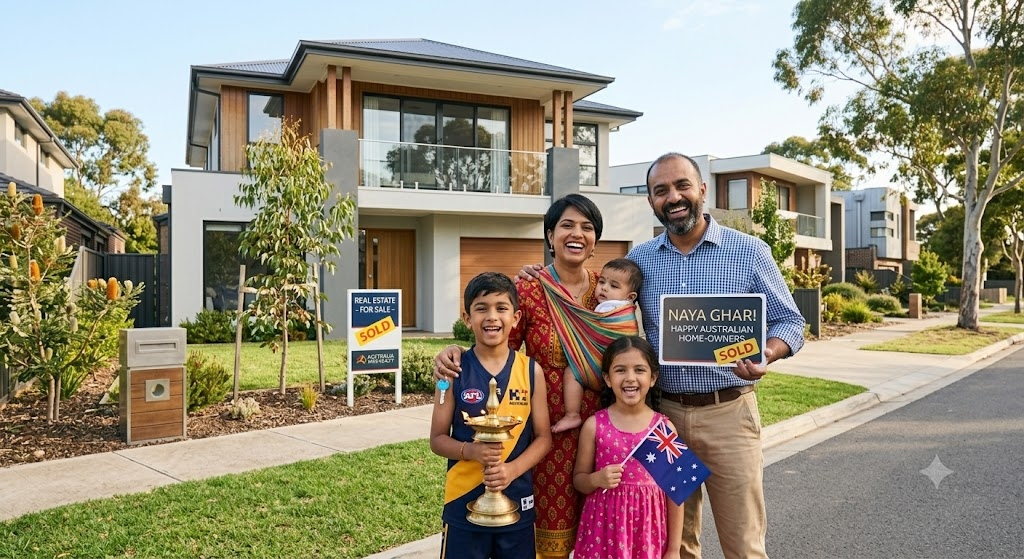
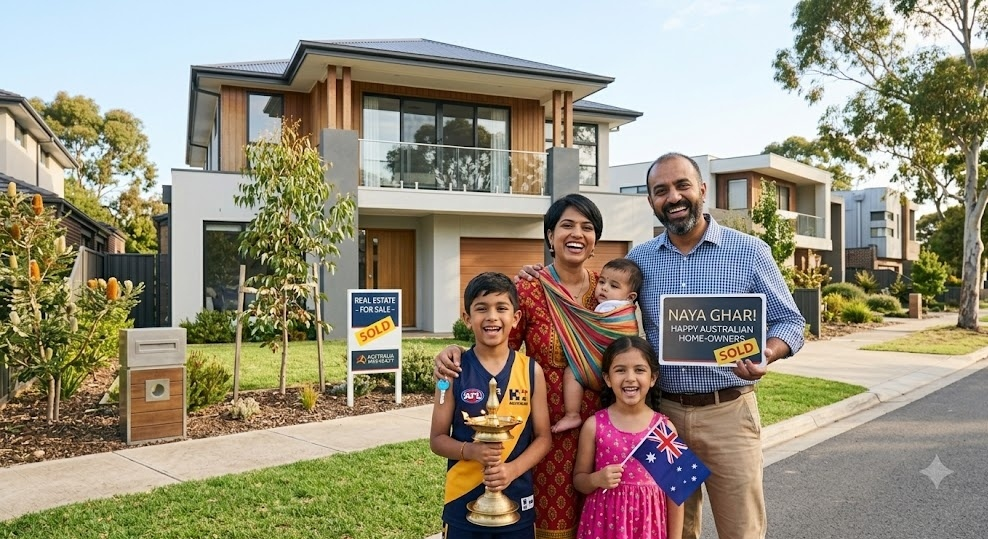
fix(ui): remove all backdrop blur for razor-sharp background visibility and permanently crop Gemini watermark from family photo

diff --git a/assets/style.css b/assets/style.css
@@ -1802,9 +1802,9 @@ section.tight { padding: 56px 0; }
    ⭐ 60-SEC INVESTOR READINESS DIAGNOSTIC QUIZ
    ========================================================================== */
 .quiz-section {
-  padding: 70px 16px;
+  padding: 60px 16px;
   position: relative;
-  background: linear-gradient(180deg, rgba(10, 20, 15, 0.25) 0%, rgba(10, 20, 15, 0.10) 50%, rgba(10, 20, 15, 0.30) 100%), 
+  background: linear-gradient(180deg, rgba(0, 0, 0, 0.42) 0%, rgba(0, 0, 0, 0.15) 45%, rgba(0, 0, 0, 0.45) 100%), 
               url('quiz-family-bg.jpg') center center / cover no-repeat;
   background-attachment: scroll;
 }
@@ -1816,38 +1816,36 @@ section.tight { padding: 56px 0; }
 
 .quiz-header {
   max-width: 780px;
-  margin: 0 auto 30px;
+  margin: 0 auto 28px;
   position: relative;
   z-index: 2;
 }
 
 .quiz-header .tag {
-  background: rgba(255, 255, 255, 0.25);
+  background: rgba(0, 0, 0, 0.45);
   color: #ffffff;
-  border: 1px solid rgba(255, 255, 255, 0.45);
-  backdrop-filter: blur(8px);
-  -webkit-backdrop-filter: blur(8px);
+  border: 1px solid rgba(255, 255, 255, 0.4);
   text-shadow: 0 1px 3px rgba(0, 0, 0, 0.8);
 }
 
 .quiz-header h2 {
   color: #ffffff;
-  text-shadow: 0 2px 14px rgba(0, 0, 0, 0.85);
+  text-shadow: 0 2px 14px rgba(0, 0, 0, 0.9);
 }
 
 .quiz-header .lede {
-  color: #eaf3ee;
-  text-shadow: 0 1px 8px rgba(0, 0, 0, 0.85);
+  color: #f0f7f4;
+  text-shadow: 0 1px 8px rgba(0, 0, 0, 0.9);
 }
 
 .quiz-container-box {
-  background: rgba(10, 22, 16, 0.48);
-  backdrop-filter: blur(14px);
-  -webkit-backdrop-filter: blur(14px);
-  border: 1.5px solid rgba(255, 255, 255, 0.30);
+  background: rgba(8, 18, 13, 0.45);
+  backdrop-filter: none;
+  -webkit-backdrop-filter: none;
+  border: 1px solid rgba(255, 255, 255, 0.22);
   border-radius: var(--radius-xl);
-  padding: 42px 48px;
-  box-shadow: 0 30px 70px rgba(0, 0, 0, 0.55);
+  padding: 38px 44px;
+  box-shadow: 0 24px 60px rgba(0, 0, 0, 0.5);
   max-width: 1160px;
   width: 100%;
   margin: 0 auto;
@@ -1857,7 +1855,7 @@ section.tight { padding: 56px 0; }
 
 /* Progress Track */
 .quiz-progress-bar-wrap {
-  margin-bottom: 32px;
+  margin-bottom: 28px;
 }
 
 .quiz-progress-meta {
@@ -1873,7 +1871,7 @@ section.tight { padding: 56px 0; }
 
 .quiz-progress-track {
   height: 8px;
-  background: rgba(255, 255, 255, 0.18);
+  background: rgba(255, 255, 255, 0.2);
   border-radius: var(--radius-full);
   overflow: hidden;
   border: 1px solid rgba(255, 255, 255, 0.25);
@@ -1891,7 +1889,7 @@ section.tight { padding: 56px 0; }
 .quiz-question-title {
   font-size: 1.45rem;
   color: #ffffff;
-  text-shadow: 0 2px 10px rgba(0, 0, 0, 0.85);
+  text-shadow: 0 2px 10px rgba(0, 0, 0, 0.9);
   margin-bottom: 6px;
   line-height: 1.25;
 }
@@ -1899,8 +1897,8 @@ section.tight { padding: 56px 0; }
 .quiz-question-sub {
   font-size: 0.94rem;
   color: #d8e8e0;
-  text-shadow: 0 1px 6px rgba(0, 0, 0, 0.8);
-  margin-bottom: 24px;
+  text-shadow: 0 1px 6px rgba(0, 0, 0, 0.9);
+  margin-bottom: 22px;
 }
 
 /* Options Grid */
@@ -1913,16 +1911,16 @@ section.tight { padding: 56px 0; }
 .quiz-opt-card {
   display: block;
   cursor: pointer;
-  border: 1.5px solid rgba(255, 255, 255, 0.24);
+  border: 1px solid rgba(255, 255, 255, 0.22);
   border-radius: var(--radius-md);
-  padding: 20px 22px;
-  background: rgba(10, 24, 18, 0.52);
-  backdrop-filter: blur(10px);
-  -webkit-backdrop-filter: blur(10px);
-  transition: all 0.25s cubic-bezier(0.16, 1, 0.3, 1);
+  padding: 18px 20px;
+  background: rgba(10, 22, 16, 0.58);
+  backdrop-filter: none;
+  -webkit-backdrop-filter: none;
+  transition: all 0.2s ease;
   position: relative;
   user-select: none;
-  box-shadow: 0 8px 24px rgba(0, 0, 0, 0.25);
+  box-shadow: 0 6px 20px rgba(0, 0, 0, 0.3);
 }
 
 .quiz-opt-card input {
@@ -1932,14 +1930,14 @@ section.tight { padding: 56px 0; }
 .quiz-opt-card:hover {
   border-color: #55d697;
   transform: translateY(-2px);
-  background: rgba(255, 255, 255, 0.16);
-  box-shadow: 0 10px 28px rgba(0, 0, 0, 0.4);
+  background: rgba(18, 38, 28, 0.78);
+  box-shadow: 0 10px 28px rgba(0, 0, 0, 0.45);
 }
 
 .quiz-opt-card.selected {
   border-color: #55d697;
-  background: rgba(85, 214, 151, 0.22);
-  box-shadow: 0 0 20px rgba(85, 214, 151, 0.35);
+  background: rgba(85, 214, 151, 0.25);
+  box-shadow: 0 0 18px rgba(85, 214, 151, 0.4);
 }
 
 .quiz-opt-content {
@@ -1958,7 +1956,7 @@ section.tight { padding: 56px 0; }
   display: block;
   font-size: 0.98rem;
   color: #ffffff;
-  text-shadow: 0 1px 4px rgba(0, 0, 0, 0.8);
+  text-shadow: 0 1px 4px rgba(0, 0, 0, 0.9);
   margin-bottom: 4px;
   line-height: 1.3;
 }
@@ -1966,8 +1964,8 @@ section.tight { padding: 56px 0; }
 .quiz-opt-text span {
   display: block;
   font-size: 0.82rem;
-  color: #c9dcd2;
-  text-shadow: 0 1px 3px rgba(0, 0, 0, 0.7);
+  color: #d1e2da;
+  text-shadow: 0 1px 3px rgba(0, 0, 0, 0.8);
   line-height: 1.4;
 }
 
@@ -1975,7 +1973,7 @@ section.tight { padding: 56px 0; }
   width: 20px;
   height: 20px;
   border-radius: 50%;
-  border: 2px solid rgba(255, 255, 255, 0.4);
+  border: 2px solid rgba(255, 255, 255, 0.45);
   margin-left: auto;
   flex-shrink: 0;
   transition: all 0.2s ease;
@@ -2037,7 +2035,7 @@ section.tight { padding: 56px 0; }
   width: 84px;
   height: 84px;
   border-radius: 50%;
-  background: rgba(85, 214, 151, 0.18);
+  background: rgba(85, 214, 151, 0.22);
   border: 2.5px solid #55d697;
   display: flex;
   flex-direction: column;
@@ -2070,9 +2068,9 @@ section.tight { padding: 56px 0; }
 }
 
 .quiz-res-card {
-  background: rgba(10, 24, 18, 0.60);
-  backdrop-filter: blur(12px);
-  -webkit-backdrop-filter: blur(12px);
+  background: rgba(10, 22, 16, 0.62);
+  backdrop-filter: none;
+  -webkit-backdrop-filter: none;
   border: 1px solid rgba(255, 255, 255, 0.22);
   border-radius: var(--radius-md);
   padding: 18px 20px;
@@ -2102,9 +2100,9 @@ section.tight { padding: 56px 0; }
 
 /* Lead Capture Box */
 .quiz-lead-box {
-  background: rgba(10, 24, 18, 0.65);
-  backdrop-filter: blur(14px);
-  -webkit-backdrop-filter: blur(14px);
+  background: rgba(10, 22, 16, 0.68);
+  backdrop-filter: none;
+  -webkit-backdrop-filter: none;
   border: 1.5px solid rgba(85, 214, 151, 0.5);
   border-radius: var(--radius-lg);
   padding: 28px;

diff --git a/index.html b/index.html
@@ -9,7 +9,7 @@
 <link rel="preconnect" href="https://fonts.googleapis.com">
 <link rel="preconnect" href="https://fonts.gstatic.com" crossorigin>
 <link href="https://fonts.googleapis.com/css2?family=Fraunces:ital,opsz,wght@0,9..144,400;0,9..144,500;0,9..144,600;0,9..144,700;1,9..144,400;1,9..144,600&family=Plus+Jakarta+Sans:wght@300;400;500;600;700;800&display=swap" rel="stylesheet">
-<link rel="stylesheet" href="assets/style.css?v=3.1">
+<link rel="stylesheet" href="assets/style.css?v=3.2">
 <!-- Three.js 3D WebGL Library -->
 <script src="https://cdnjs.cloudflare.com/ajax/libs/three.js/r128/three.min.js"></script>
 </head>
